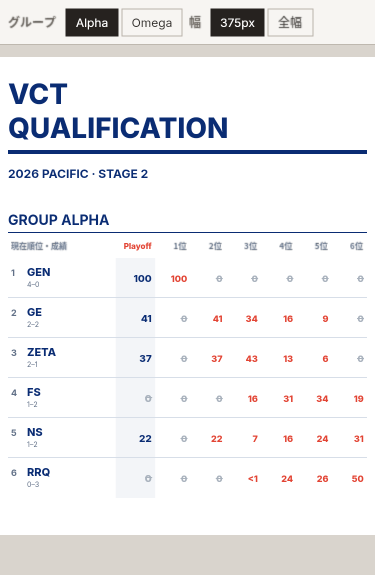
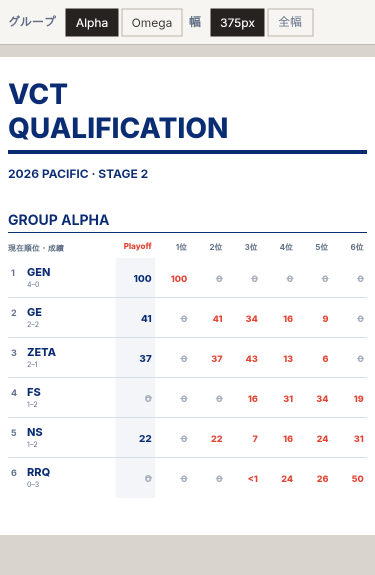
fix(design): OpenPencilの日本語描画を解決し原本を再生成

diff --git a/docs/design/openpencil-japanese.md b/docs/design/openpencil-japanese.md
@@ -1,0 +1,141 @@
+# OpenPencil CLIで日本語をPNGへ書き出す
+
+## 結論
+
+OpenPencil CLI 0.13.2のヘッドレス書き出しでは、OSにインストールされた日本語フォントを列挙・読込できない。さらにCJKフォールバックの非同期読込を待たずに最初の画像を描画する。このため、CJKを含むテキストノードはフォールバックが空の間は描画対象から除外され、文字化けではなくノード全体が消える。
+
+CLI起動前に`@open-pencil/core`の`fontManager`へ単体TTFを登録し、CJKフォールバックとして設定すれば、日本語を編集可能な`TEXT`ノードのままPNGへ書き出せる。
+
+このリポジトリの成果物は、既にインストールされていたIPAexゴシックをフォールバックに使って再生成した。依存関係は追加していない。
+
+## 切り分け結果
+
+対象環境はOpenPencil CLI 0.13.2、Node.jsラッパー起動である。
+
+- `FigmaAPI.loadFontAsync()`は空のasync関数で、指定を検証せず何もしない。`Inter Regular`、`Noto Sans CJK JP Regular`、存在しない`No Such Font Impossible`がすべて成功扱いになった。
+- `FigmaAPI.listAvailableFontsAsync()`は常に`[]`を返す。CLIで利用可能フォントを調べるAPIにはなっていない。
+- 実際のPNG描画は`FontManager`を使う。Node環境では`findLocalFont()`が即座に`null`を返すため、`fc-list`に見えるフォントは自動では利用されない。
+- CJKを含むテキストは、CJKフォールバックが1件も登録されていないと`hasRequiredFallbackFonts()`がfalseになり、`buildTextPicture()`が`null`を返す。このガードが「日本語を含むノードが丸ごと消える」直接原因である。
+- ヘッドレスの`renderer.loadFonts()`は`ensureCJKFallback()`を開始するがawaitしない。直後の書き出し準備は文書で明示された主フォントだけを待つため、リモートCJKフォントが取得可能でも初回PNGに間に合う保証がない。
+- 同梱Interの解決は`import.meta.resolve("@open-pencil/core/package.json")`を使うが、0.13.2の`package.json`の`exports`に`./package.json`がない。このためNodeでは`ERR_PACKAGE_PATH_NOT_EXPORTED`になる。
+- `/usr/share/fonts/opentype/noto/NotoSansCJK-Regular.ttc`をそのままCanvasKitへ登録しても、この環境では日本語が描画されなかった。単体TTFのIPAexゴシックとDroid Sans Fallbackでは描画できた。
+
+400×160の最小FIGに英字と日本語を別ノードで置き、PNGの各領域の平均輝度を測った。白一色は`1`である。
+
+| 条件 | 英字領域 | 日本語領域 | 判定 |
+| --- | ---: | ---: | --- |
+| 通常の0.13.2 | 1 | 1 | Inter解決失敗で両方消失 |
+| 同梱InterとIPAexゴシックを事前登録 | 0.931431 | 0.947836 | 両方描画 |
+
+英数字が以前描画できていたのは、一時ローダーが`./package.json`の非公開subpath解決を回避してInterを利用可能にしていたためである。その回避だけではCJKフォールバックは登録されない。
+
+## 必要な恒久設定
+
+`~/.local/share/ai-tools/`以下は変更しない。chezmoi側の`~/.config/ai/openpencil-node-compat.mjs`へ、既存のBun互換処理に加えて次の事前登録を入れる。
+
+```js
+import { readFile, writeFile } from "node:fs/promises";
+import { pathToFileURL } from "node:url";
+
+const homePath = process.env.HOME;
+const corePath = `${homePath}/.local/share/ai-tools/node_modules/@open-pencil/core`;
+const { fontManager } = await import(
+  pathToFileURL(`${corePath}/dist/text/fonts.js`).href
+);
+
+for (const [style, filename] of [
+  ["Regular", "Inter-Regular.ttf"],
+  ["Medium", "Inter-Medium.ttf"],
+  ["SemiBold", "Inter-SemiBold.ttf"],
+  ["Bold", "Inter-Bold.ttf"],
+  ["ExtraBold", "Inter-ExtraBold.ttf"],
+]) {
+  const data = await readFile(`${corePath}/assets/${filename}`);
+  fontManager.markLoaded(
+    "Inter",
+    style,
+    data.buffer.slice(data.byteOffset, data.byteOffset + data.byteLength),
+  );
+}
+
+const arabic = await readFile(`${corePath}/assets/NotoNaskhArabic-Regular.ttf`);
+fontManager.markLoaded(
+  "Noto Naskh Arabic",
+  "Regular",
+  arabic.buffer.slice(
+    arabic.byteOffset,
+    arabic.byteOffset + arabic.byteLength,
+  ),
+);
+
+const cjkPath =
+  process.env.OPENPENCIL_CJK_FONT ??
+  "/usr/share/fonts/opentype/ipaexfont-gothic/ipaexg.ttf";
+const cjk = await readFile(cjkPath);
+const cjkData = cjk.buffer.slice(
+  cjk.byteOffset,
+  cjk.byteOffset + cjk.byteLength,
+);
+const cjkFamily = "OpenPencil CJK Fallback";
+fontManager.markLoaded(cjkFamily, "Regular", cjkData);
+fontManager.setCJKFallbackFamily(cjkFamily);
+```
+
+既存ファイル冒頭の`readFile, writeFile` importは重複させず、`pathToFileURL`だけを追加する。既存の`globalThis.Bun = { file, write }`は残す。
+
+この事前登録は次の2点を同時に解決する。
+
+1. 同梱Interを既知の実体パスから読み、問題の`@open-pencil/core/package.json`解決を通らない。
+2. PNGレンダラー生成前にCJKフォールバックを確定し、非同期ロード競合を通らない。
+
+IPAexゴシックが別の場所にある環境では、ラッパーから`OPENPENCIL_CJK_FONT`へ単体の`.ttf`または`.otf`を指定する。TTCはこの環境では利用できなかった。
+
+## 書き出し
+
+起動は必ずPATH上のラッパーを使う。互換ファイルへ上記設定を反映した後は追加オプション不要である。
+
+```sh
+openpencil export docs/design/probability-board.fig \
+  --node '0:4' \
+  -o docs/design/probability-board-mobile.png
+
+openpencil export docs/design/probability-board.fig \
+  --node '0:125' \
+  -o docs/design/probability-board-desktop.png
+```
+
+現在のFIGには画像フィルが0件、日本語を含む`TEXT`ノードが20件あり、20件すべて`opacity > 0`である。旧回避レイヤーと未参照画像blobも削除済みで、FIGアーカイブは`canvas.fig`、`thumbnail.png`、`meta.json`の3ファイルだけになっている。
+
+確認には次を使う。
+
+```sh
+openpencil eval docs/design/probability-board.fig --json -c '
+const all = figma.currentPage.findAll();
+const images = all.filter(
+  (n) => Array.isArray(n.fills) && n.fills.some((f) => f.type === "IMAGE"),
+);
+const japanese = all.filter(
+  (n) => n.type === "TEXT" && /[ぁ-んァ-ヶ一-龠]/u.test(n.characters),
+);
+return {
+  imageLayers: images.length,
+  japaneseTexts: japanese.length,
+  visibleJapaneseTexts: japanese.filter((n) => n.opacity > 0).length,
+};'
+```
+
+期待値は`imageLayers: 0`、`japaneseTexts: 20`、`visibleJapaneseTexts: 20`である。
+
+FIGを組み直す場合は、複数回の`eval -w`へ分けず、ノード作成・変更を1回の`eval`で完了させて保存する。0.13.2では段階保存後の再読込で既存ノード構造が保持されないケースがある。
+
+## 上流での修正候補
+
+ローカルpreloadを不要にするには、OpenPencil側で少なくとも次が必要である。
+
+- `@open-pencil/core`の公開`exports`に`./package.json`を追加するか、`fetchBundledFont()`が非公開subpathを解決しない実装へ変える。
+- Node向けに明示的なフォントファイル登録APIを公開する。
+- ヘッドレス書き出しでは`ensureCJKFallback()`と`ensureArabicFallback()`の完了後に描画する。
+- `loadFontAsync()`を実際の`FontManager.loadFont()`へ接続し、失敗をrejectする。
+- CLI向け`listAvailableFontsAsync()`が同梱・事前登録済みフォントを返すようにする。
+
+OpenPencil v0.14.0は調査時点の最新リリースだが、このリポジトリでは依存更新を行っておらず、同じ最小再現を未検証である。更新する場合も上記の赤／緑判定を先に通す。
